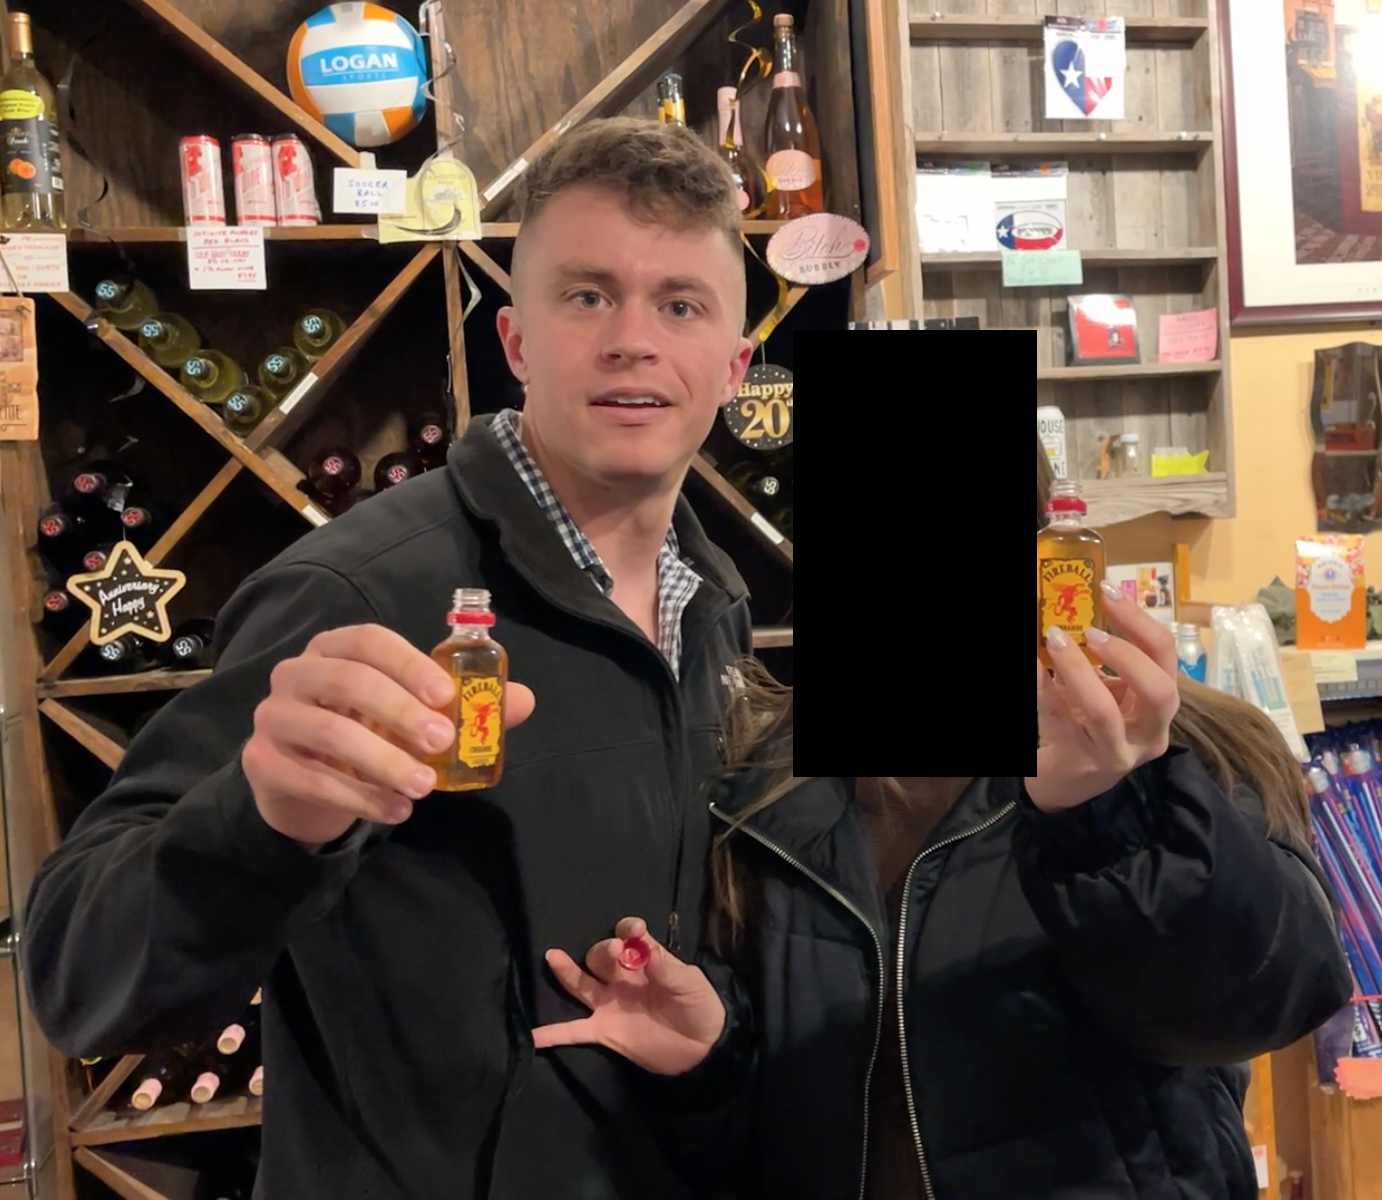
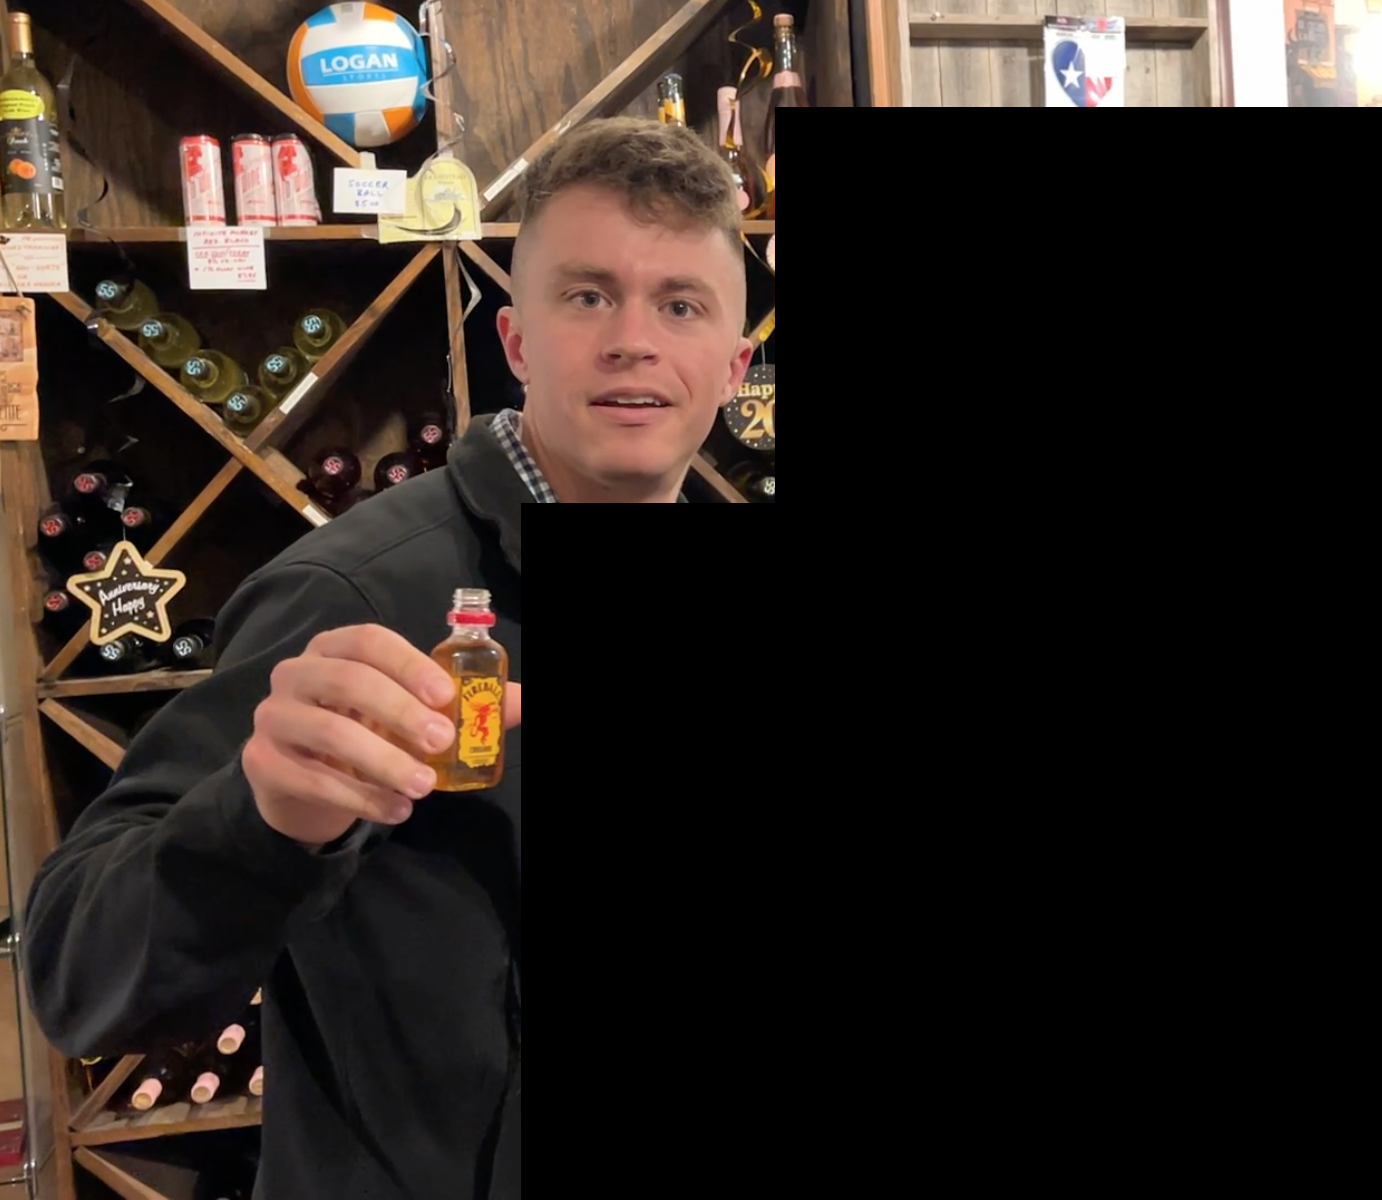
a

diff --git a/experiences/fredericksburg.html b/experiences/fredericksburg.html
@@ -182,11 +182,6 @@
   Dinner was at <a href="https://theauslanderfredericksburg.com/">The Auslander</a>, but included a 45-minute wait, so we did what any normal people would do and went to the heavy metal bar next door to take ice cream shots and enjoy Lamb of God's soothing melodies and peaceful riffs. Two rounds later we ended up in another store for another two shots, this time peach Jell-O and Fireball, a match made in the heaven that was this random FB convenience store run by a very kind woman who was a bit thrown off by this random couple coming in for impromptu shots. The table-ready text came through shortly after, guiding us to a dinner of beers, multiple sausages, and hefty banter with each other and the waiter.
 </p>
 
-<img src="media/fredericksburg/fireball.png" style="width:400px">
-<figcaption>
-  Fireball's next top models
-</figcaption>
-
 <p>
   We took a verdauungsspaziergang down Main Street and enjoyed some dancing and live music at a small bar. An ice cream sandwich was for dessert before calling it an early night at 9:30pm.
 </p>
